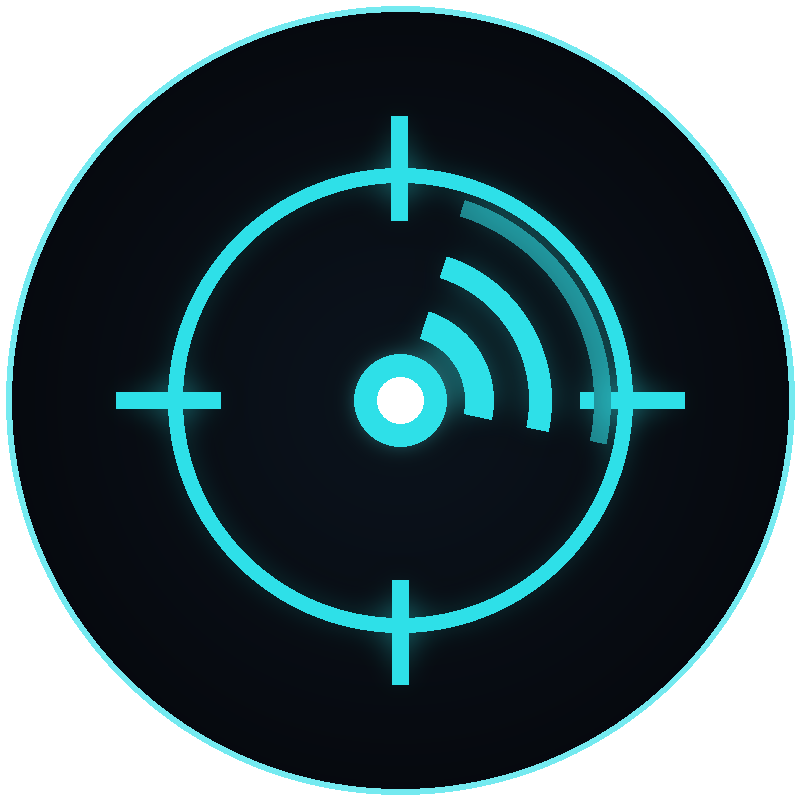
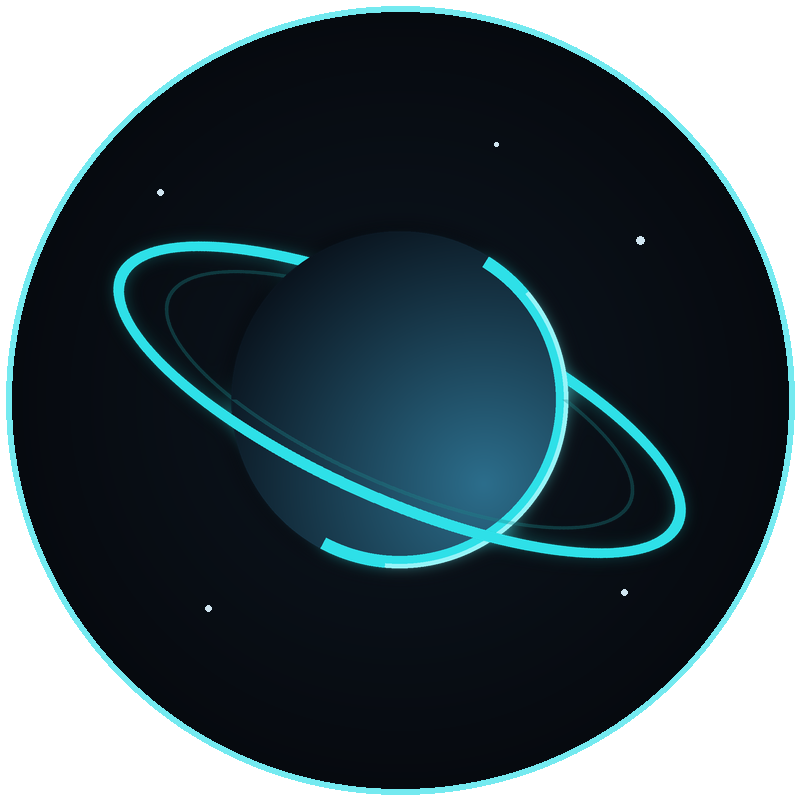
Rebrand SIGNAL mark to general-cosmic ringed planet (Saturn)
Reticle/broadcast-signal glyph tied the identity too tightly to the
'signals' sub-theme; the channel covers all of space (variety strategy).
Replaced with a ringed-planet mark: universally read as 'space' at any
size, general across topics, same premium cyan/dark palette.

- make_brand.py: polished Saturn (shaded sphere + rim-light + 3D ring
  with front/back occlusion + stars), supersampled. Supersedes make_logo.py
- avatar_full / avatar_wordmark / mark_only regenerated
- banner rebuilt with the planet glyph, vertically centered to the wordmark

Claude-Session: https://claude.ai/code/session_01WA7k99jSrG9W4iNnmMgLxL

Changed region(s): [[0.125, 0.125, 0.875, 0.875]]

diff --git a/produktion/branding/make_brand.py b/produktion/branding/make_brand.py
@@ -1,0 +1,144 @@
+#!/usr/bin/env python3
+"""SIGNAL canonical brand mark — RINGED PLANET (general cosmic, supersedes the reticle mark).
+Polished Saturn: shaded sphere + rim-light crescent + 3D ring (back arc behind, front arc in
+front) + glow + context stars. Same premium cyan/dark palette.
+Outputs (canonical, overwrite): avatar_full.png (textless bold), avatar_wordmark.png,
+mark_only.png (transparent watermark). + QC strip at 512/88/48."""
+import os, math
+from PIL import Image, ImageDraw, ImageFont, ImageFilter
+
+HERE = os.path.dirname(os.path.abspath(__file__))
+SCRATCH = "/tmp/claude-0/-home-user-YOutube/49ca386a-7ebb-5a62-a8e4-ca474812989b/scratchpad"
+ANTON = os.path.join(SCRATCH, "fonts", "Anton-Regular.ttf")
+CY = (46, 224, 232)
+CYb = (150, 244, 249)
+INK = (233, 239, 247)
+WHITE = (255, 255, 255)
+BG0 = (13, 22, 32)
+BG1 = (5, 7, 11)
+S = 800
+SS = 3
+Z = S*SS
+TILT = -24
+
+
+def radial_bg(size, c0, c1):
+    im = Image.new("RGB", (size, size), c1); px = im.load()
+    cx = cy = size/2; R = size*0.62
+    for y in range(size):
+        for x in range(size):
+            d = min(1, ((x-cx)**2+(y-cy)**2)**0.5/R)
+            px[x, y] = (int(c0[0]+(c1[0]-c0[0])*d), int(c0[1]+(c1[1]-c0[1])*d), int(c0[2]+(c1[2]-c0[2])*d))
+    return im
+
+
+def sphere(cx, cy, R):
+    """Shaded planet sphere: dark body, cyan rim-light crescent lower-right, terminator shading."""
+    lay = Image.new("RGBA", (Z, Z), (0, 0, 0, 0)); d = ImageDraw.Draw(lay)
+    # body radial: lighter toward light dir (lower-right), darker upper-left
+    body = Image.new("RGBA", (Z, Z), (0, 0, 0, 0)); bpx = body.load()
+    lx, ly = cx+R*0.5, cy+R*0.5
+    for yy in range(cy-R, cy+R):
+        for xx in range(cx-R, cx+R):
+            if (xx-cx)**2+(yy-cy)**2 <= R*R:
+                t = 1 - min(1, (((xx-lx)**2+(yy-ly)**2)**0.5)/(R*1.7))
+                r = int(10+34*t); g = int(20+90*t); b = int(30+110*t)
+                bpx[xx, yy] = (r, g, b, 255)
+    lay.alpha_composite(body)
+    # bright cyan rim-light crescent (lower-right limb)
+    d.arc([cx-R, cy-R, cx+R, cy+R], start=-58, end=118, fill=CY+(255,), width=int(11*SS/1.0))
+    d.arc([cx-R, cy-R, cx+R, cy+R], start=-40, end=95, fill=CYb+(255,), width=int(4*SS))
+    return lay
+
+
+def ring_layer(rw, rh, band, color, width):
+    lay = Image.new("RGBA", (Z, Z), (0, 0, 0, 0)); d = ImageDraw.Draw(lay)
+    cx = cy = Z//2
+    d.ellipse([cx-rw, cy-rh, cx+rw, cy+rh], outline=color, width=width)
+    # thin inner structure line
+    d.ellipse([cx-int(rw*0.82), cy-int(rh*0.82), cx+int(rw*0.82), cy+int(rh*0.82)],
+              outline=(color[0], color[1], color[2], 150), width=max(2, width//3))
+    return lay.rotate(TILT, resample=Image.BICUBIC, center=(cx, cy))
+
+
+def mark_saturn():
+    lay = Image.new("RGBA", (Z, Z), (0, 0, 0, 0))
+    cx = cy = Z//2
+    R = int(Z*0.185)
+    rw, rh = int(Z*0.34), int(Z*0.115)
+    ring = ring_layer(rw, rh, None, CY, int(10*SS))
+    sph = sphere(cx, cy, R)
+    # BACK half of ring (above sphere's tilted center): mask to upper region
+    back_mask = Image.new("L", (Z, Z), 0)
+    ImageDraw.Draw(back_mask).rectangle([0, 0, Z, cy], fill=255)
+    back = Image.new("RGBA", (Z, Z), (0, 0, 0, 0))
+    back.paste(ring, (0, 0), Image.composite(ring.split()[3], Image.new("L", (Z, Z), 0), back_mask))
+    # FRONT half (below center)
+    front_mask = Image.new("L", (Z, Z), 0)
+    ImageDraw.Draw(front_mask).rectangle([0, cy, Z, Z], fill=255)
+    front = Image.new("RGBA", (Z, Z), (0, 0, 0, 0))
+    front.paste(ring, (0, 0), Image.composite(ring.split()[3], Image.new("L", (Z, Z), 0), front_mask))
+    lay.alpha_composite(back)
+    lay.alpha_composite(sph)
+    lay.alpha_composite(front)
+    return lay
+
+
+def build(mode="avatar", transparent=False):
+    with_text = (mode == "wordmark")
+    if transparent:
+        im = Image.new("RGBA", (S, S), (0, 0, 0, 0))
+    else:
+        im = radial_bg(S, BG0, BG1).convert("RGBA")
+        # context stars in the disc
+        d0 = ImageDraw.Draw(im)
+        for (sx, sy, sr) in [(0.20, 0.24, 3), (0.80, 0.30, 4), (0.26, 0.76, 3), (0.78, 0.74, 3), (0.62, 0.18, 2)]:
+            px, py = int(S*sx), int(S*sy)
+            d0.ellipse([px-sr, py-sr, px+sr, py+sr], fill=(200, 225, 238, 220))
+    markZ = mark_saturn()
+    # scale/position: bigger for textless avatar, higher for wordmark
+    if with_text:
+        scale = 0.82; oy = -60
+    else:
+        scale = 1.14; oy = 0
+    newsize = int(Z*scale)
+    m = markZ.resize((newsize, newsize), Image.LANCZOS)
+    # glow
+    glow = m.filter(ImageFilter.GaussianBlur(int(9*SS*scale)))
+    # downscale mark to badge space
+    def to_badge(img):
+        b = Image.new("RGBA", (S, S), (0, 0, 0, 0))
+        r = img.resize((int(img.width/SS), int(img.height/SS)), Image.LANCZOS)
+        b.alpha_composite(r, ((S-r.width)//2, (S-r.height)//2 + oy))
+        return b
+    im.alpha_composite(to_badge(glow))
+    im.alpha_composite(to_badge(m))
+    if with_text:
+        d2 = ImageDraw.Draw(im)
+        fo = ImageFont.truetype(ANTON, 132)
+        t = "SIGNAL"; b = d2.textbbox((0, 0), t, font=fo); tw = b[2]-b[0]
+        d2.text((S//2-tw//2, S//2+118), t, font=fo, fill=INK+(255,), stroke_width=3, stroke_fill=(6, 8, 12, 255))
+    if not transparent:
+        mask = Image.new("L", (S, S), 0); ImageDraw.Draw(mask).ellipse([6, 6, S-6, S-6], fill=255)
+        disc = Image.new("RGBA", (S, S), (0, 0, 0, 0)); disc.paste(im, (0, 0), mask)
+        ImageDraw.Draw(disc).ellipse([6, 6, S-6, S-6], outline=CY+(170,), width=6)
+        im = disc
+    return im
+
+
+av = build("avatar"); av.convert("RGBA").save(os.path.join(HERE, "avatar_full.png"))
+wm = build("wordmark"); wm.convert("RGBA").save(os.path.join(HERE, "avatar_wordmark.png"))
+mk = build("avatar", transparent=True); mk.save(os.path.join(HERE, "mark_only.png"))
+# QC
+strip = Image.new("RGB", (256+256+88+48+140, 300), (30, 32, 36)); sd = ImageDraw.Draw(strip)
+fo = ImageFont.truetype("/usr/share/fonts/truetype/dejavu/DejaVuSansMono-Bold.ttf", 20)
+strip.paste(av.resize((256, 256), Image.LANCZOS).convert("RGB"), (20, 30), av.resize((256, 256), Image.LANCZOS))
+sd.text((20, 8), "AVATAR", font=fo, fill=(220, 224, 228))
+strip.paste(wm.resize((256, 256), Image.LANCZOS).convert("RGB"), (290, 30), wm.resize((256, 256), Image.LANCZOS))
+sd.text((290, 8), "wordmark", font=fo, fill=(220, 224, 228))
+strip.paste(av.resize((88, 88), Image.LANCZOS).convert("RGB"), (560, 60), av.resize((88, 88), Image.LANCZOS))
+sd.text((560, 40), "88px", font=fo, fill=(220, 224, 228))
+strip.paste(av.resize((48, 48), Image.LANCZOS).convert("RGB"), (668, 60), av.resize((48, 48), Image.LANCZOS))
+sd.text((668, 40), "48px", font=fo, fill=(220, 224, 228))
+strip.save(os.path.join(HERE, "_qc_avatar.png"))
+print("brand mark (Saturn) built: avatar_full, avatar_wordmark, mark_only + _qc_avatar")

diff --git a/produktion/branding/make_banner.py b/produktion/branding/make_banner.py
@@ -60,21 +60,23 @@ def build():
     im = center_scrim(im, cx, cy-10, 760, 300, power=165)
     base = im.convert("RGBA")
 
-    # --- lockup: ping glyph + SIGNAL, centered ---
+    # --- lockup: planet glyph + SIGNAL, centered ---
     glyph = Image.open(os.path.join(HERE, "mark_only.png")).convert("RGBA")
-    g = 190
+    g = 224
     glyph = glyph.resize((g, g), Image.LANCZOS)
     fo = f(ANTON, 176)
     d = ImageDraw.Draw(base)
     word = "SIGNAL"
     ww = line_w(d, word, fo)
-    gap = 40
+    gap = 30
     wy = cy - 150
     # center the WORDMARK optically; hang glyph to its left
     tx = cx - ww//2 + 20
     x0 = tx - gap - g
-    # glyph vertically centered to the wordmark cap height
-    gy = wy - 6
+    # align glyph CENTER to the wordmark's optical (cap) center
+    wb = d.textbbox((0, 0), word, font=fo)
+    word_mid = wy + (wb[1] + wb[3]) / 2
+    gy = int(word_mid - g/2)
     # glow for glyph
     gl = Image.new("RGBA", base.size, (0, 0, 0, 0))
     gl.alpha_composite(glyph, (x0, gy))

diff --git a/produktion/branding/MANIFEST.md b/produktion/branding/MANIFEST.md
@@ -1,13 +1,13 @@
 # SIGNAL — Kanal-Branding
 
 ## Assets (Upload-fertig)
-- `avatar_full.png` — **Kanal-Avatar** (800×800). Bildmarke „getracktes Signal" (Reticle-Ring + Broadcast-Arcs + Kern), textlos → liest sich bis 48px im Feed. YouTube: Anpassen → Branding → Bild.
+- `avatar_full.png` — **Kanal-Avatar** (800×800). Bildmarke Ringplanet (Saturn: geschummerte Sphäre + Cyan-Rim + 3D-Ring + Sterne), textlos → liest sich bis 48px im Feed. YouTube: Anpassen → Branding → Bild.
 - `avatar_wordmark.png` — Glyph + „SIGNAL"-Wortmarke (800×800), für größere Verwendungen (Website, Presse, Endcard).
 - `mark_only.png` — nur der Glyph, transparent (800×800) → **Video-Wasserzeichen** (YouTube: Branding → Video-Wasserzeichen).
 - `banner.jpg` — **Kanal-Banner** (2560×1440, <6 MB). Alles Wichtige in der Safe-Area 1546×423. YouTube: Anpassen → Branding → Bannerbild.
 
 ## Pipeline (reproduzierbar)
-- `make_logo.py` — zeichnet Avatar/Wortmarke/Wasserzeichen (reines Pillow, vektorartig).
+- `make_brand.py` — zeichnet Avatar/Wortmarke/Wasserzeichen (Ringplanet-Marke, reines Pillow, supersampled).
 - `make_banner.py` — Banner: Higgsfield-Hintergrund (Letterbox beschnitten) + Center-Scrim + Wortmarke/Tagline/Format-Zeile/Signal-Noise-Bar.
 
 ## Quellen
